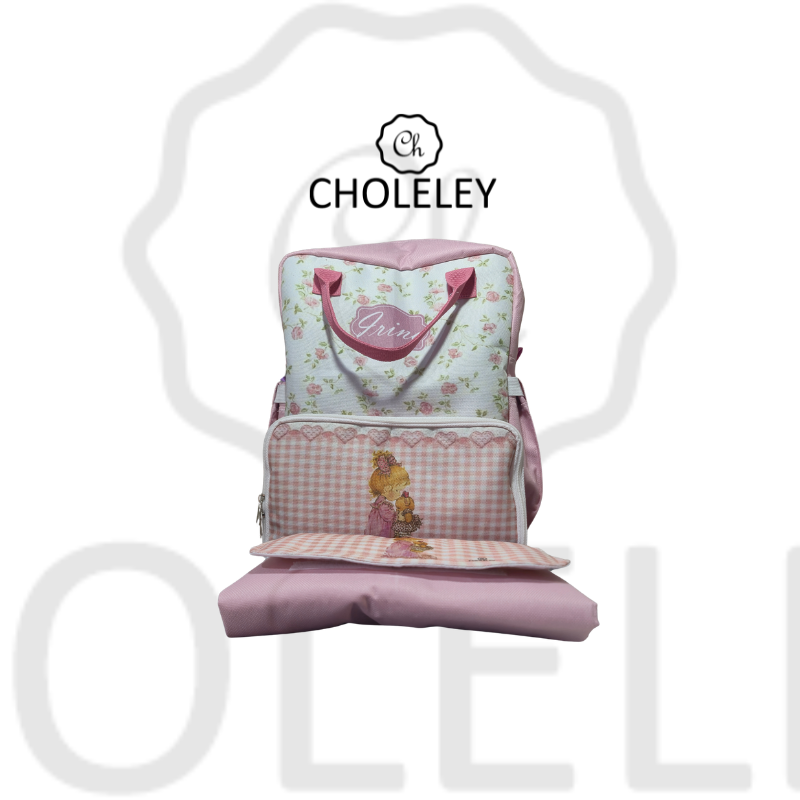
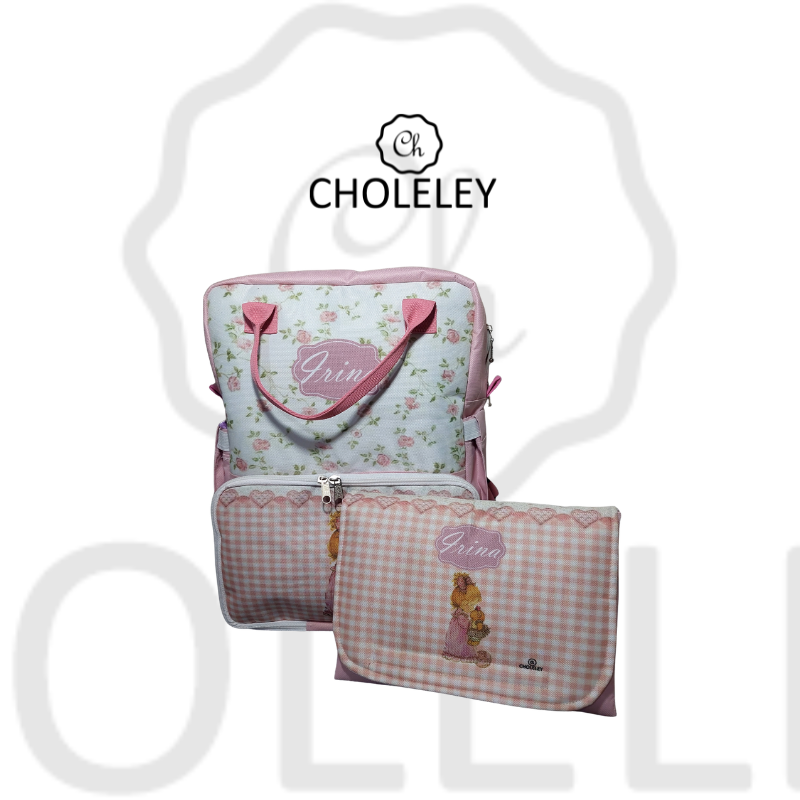
Yerberos

Changed region(s): [[0.25, 0.2812, 0.7812, 0.9062]]

diff --git a/js/main.js b/js/main.js
@@ -115,6 +115,56 @@ const productos = [
             id:"remera"
         },
         precio: 40000
+    },
+    //Yerberos
+    {
+        id: "yerbero",
+        titulo: "Yerbero 01",
+        imagen: "img/yerbero(1).png",
+        categoria:{
+            nombre:"Yerberos",
+            id:"yerbero"
+        },
+        precio: 15000
+    },
+    {
+        id: "yerbero",
+        titulo: "Yerbero 02",
+        imagen: "img/yerbero(2).png",
+        categoria:{
+            nombre:"Yerberos",
+            id:"yerbero"
+        },
+        precio: 15000
+    },
+    {
+        id: "yerbero",
+        titulo: "Yerbero 03",
+        imagen: "img/yerbero(3).png",
+        categoria:{
+            nombre:"Yerberos",
+            id:"yerbero"
+        },
+        precio: 15000
+    },
+    {
+        id: "yerbero",
+        titulo: "Yerbero 04",
+        imagen: "img/yerbero(4).png",
+        categoria:{
+            nombre:"Yerberos",
+            id:"yerbero"
+        },
+        precio: 15000
+    },
+    {id: "yerbero",
+        titulo: "Yerbero 05",
+        imagen: "img/yerbero(5).png",
+        categoria:{
+            nombre:"Yerberos",
+            id:"yerbero"
+        },
+        precio: 15000
     }
 ];
 

diff --git a/productos.html b/productos.html
@@ -52,6 +52,12 @@
                             Materos
                         </button>
                     </li>
+                    <li>
+                        <button id="yerbero" class="botonMenu botonCategoria">
+                        <i class="bi bi-cup-straw"></i></i>
+                            Yerberos
+                        </button>
+                    </li>
 
                     <li>
                         <button id="promesa" class="botonMenu botonCategoria">

diff --git a/styles/stile.css b/styles/stile.css
@@ -312,9 +312,8 @@ main{
     background-color: transparent;
     color: var(--colorText);
     font-family: var(--fontText);
-    font-size: 1rem;
     text-align: left;
-    padding: 0.9rem 1rem;
+    padding: .5rem;
     border-radius: 2rem;
     cursor: pointer;
     text-decoration: none;